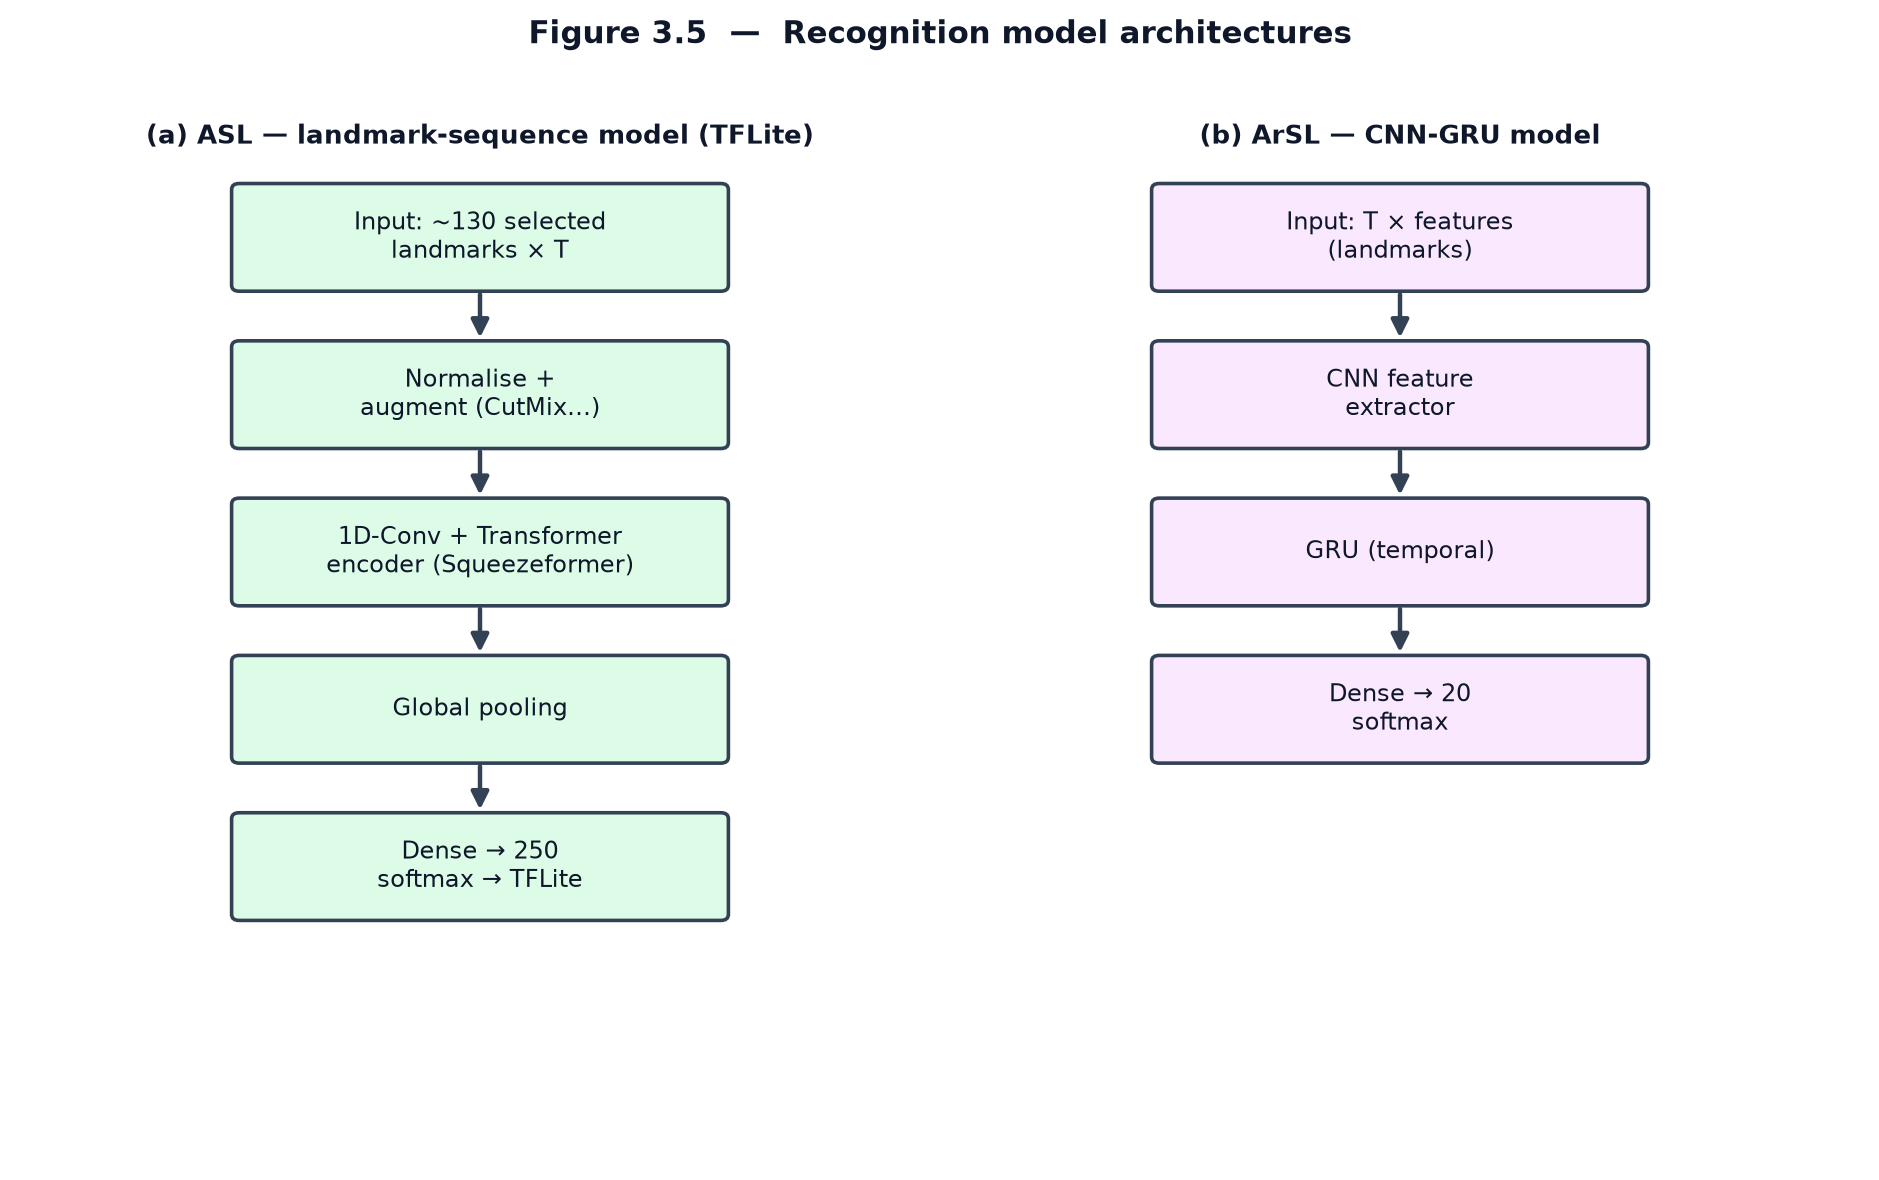
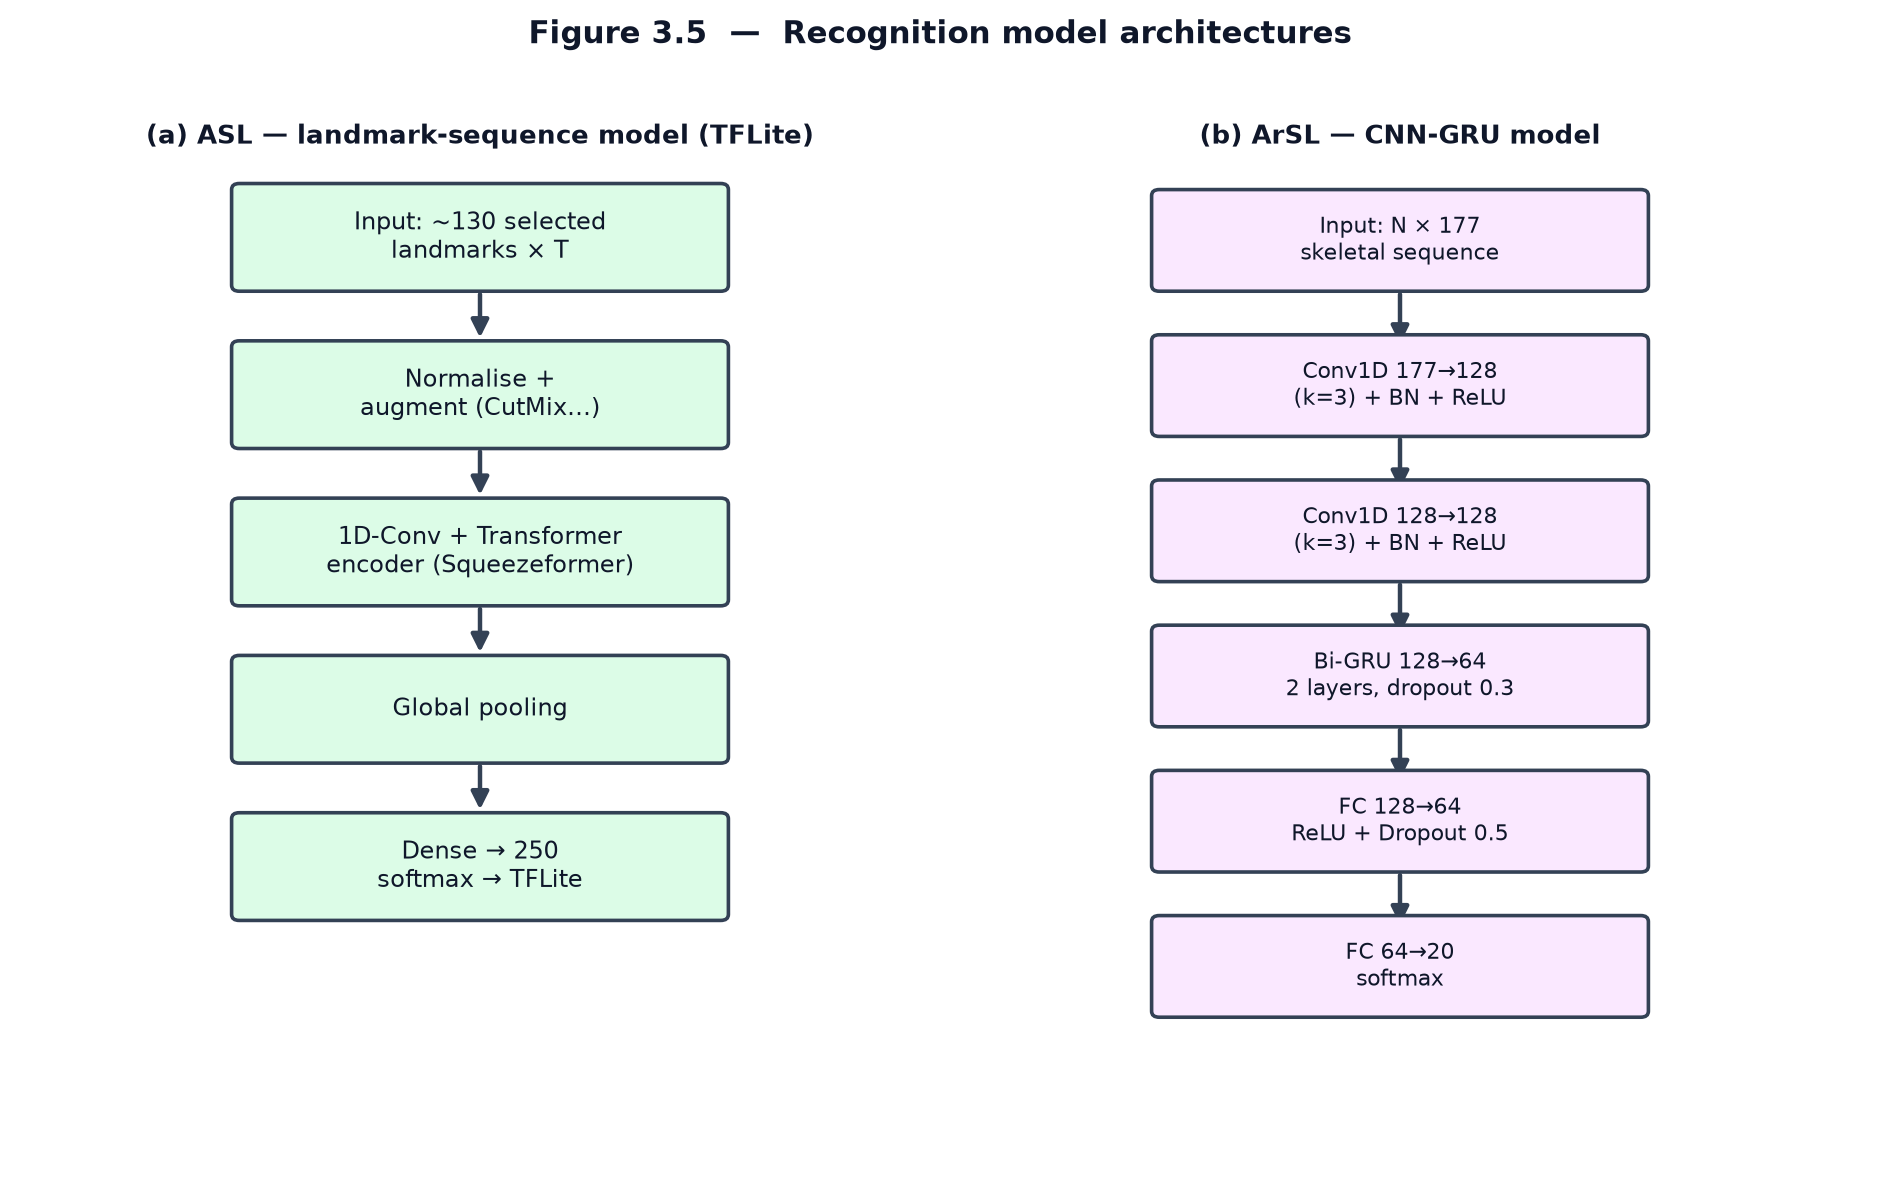
Detail ArSL CNN-GRU architecture in Fig 3.5 and section 3.5
177-dim skeletal input, two Conv1D(k=3)+BN+ReLU blocks (177->128, 128->128),
two-layer Bi-GRU (128->64, dropout 0.3), FC 128->64 (ReLU, dropout 0.5),
FC 64->20 softmax.

Claude-Session: https://claude.ai/code/session_01SkAXfGCaehh1TGugmzUAQk

Changed region(s): [[0.6173, 0.2746, 0.8952, 0.8847], [0.6173, 0.1525, 0.8952, 0.2441]]

diff --git a/scripts/make_ch3_figures.py b/scripts/make_ch3_figures.py
@@ -126,14 +126,15 @@ for t in asl:
         arrow(ax, 3.0, y, 3.0, y - 0.45)
     y -= 1.3
 ax.text(9.0, 8.4, "(b) ArSL — CNN-GRU model", ha="center", fontsize=9.5, weight="bold", color=TXT)
-ar = ["Input: T × features\n(landmarks)", "CNN feature\nextractor", "GRU (temporal)",
-      "Dense → 20\nsoftmax"]
+ar = ["Input: N × 177\nskeletal sequence", "Conv1D 177→128\n(k=3) + BN + ReLU",
+      "Conv1D 128→128\n(k=3) + BN + ReLU", "Bi-GRU 128→64\n2 layers, dropout 0.3",
+      "FC 128→64\nReLU + Dropout 0.5", "FC 64→20\nsoftmax"]
 y = 7.2
 for t in ar:
-    box(ax, 7.4, y, 3.2, 0.85, t, C_LLM, 8.5)
+    box(ax, 7.4, y, 3.2, 0.8, t, C_LLM, 8)
     if t != ar[-1]:
-        arrow(ax, 9.0, y, 9.0, y - 0.45)
-    y -= 1.3
+        arrow(ax, 9.0, y, 9.0, y - 0.5)
+    y -= 1.2
 title(ax, "Figure 3.5  —  Recognition model architectures")
 save(fig, "fig3_5_models.png")
 

diff --git a/docs/chapter3_design.md b/docs/chapter3_design.md
@@ -134,16 +134,22 @@ CutMix, finger dropout, and time stretching during training. The selected landma
 sequence is encoded by a hybrid **1D-convolution + Transformer (Squeezeformer-style)
 encoder** that captures both local temporal patterns and long-range dependencies,
 followed by global pooling and a 250-way softmax classifier. The model is trained in
-PyTorch and exported to TFLite for efficient server-side inference. The ArSL model
-is a **CNN-GRU**: a convolutional feature extractor followed by a gated recurrent
-unit that captures temporal dynamics, ending in a 20-way classifier.
+PyTorch and exported to TFLite for efficient server-side inference.
+
+The ArSL model is a compact **CNN-GRU** that operates on a 177-dimensional skeletal
+feature vector per frame. Two one-dimensional convolutional blocks (177→128 then
+128→128, kernel size 3, each followed by batch normalisation and ReLU) extract local
+spatio-temporal features; a two-layer **bidirectional GRU** (128→64 hidden units,
+dropout 0.3) models the temporal dynamics, producing a 128-dimensional
+representation; and two fully connected layers (128→64 with ReLU and dropout 0.5,
+then 64→20) with a softmax yield the 20-class prediction.
 
 ![Figure 3.5](figures/fig3_5_models.png)
 
 **Figure 3.5 — Recognition model architectures.**
 
-> Note: the exact layer configurations (encoder depth, hidden sizes, input window
-> length) are reported in Chapter 4 from the trained models.
+> Note: training hyperparameters (optimiser, learning rate, epochs, and input
+> window length) are reported in Chapter 4.
 
 ## 3.6 Gloss-to-Sentence Translation
 
